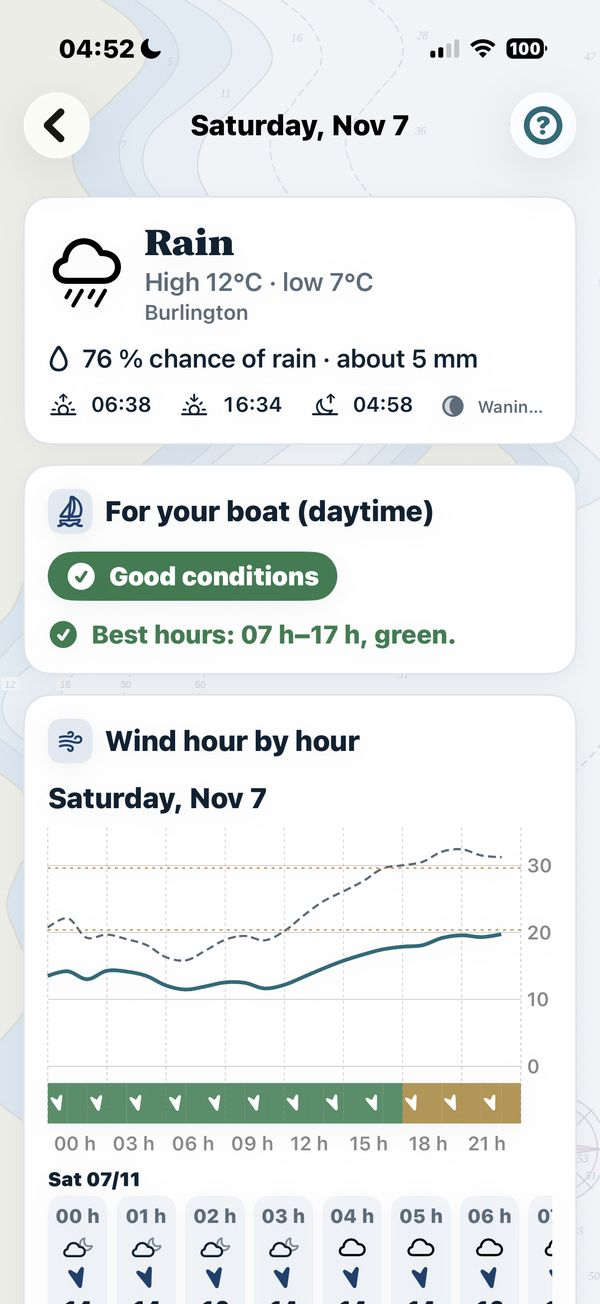
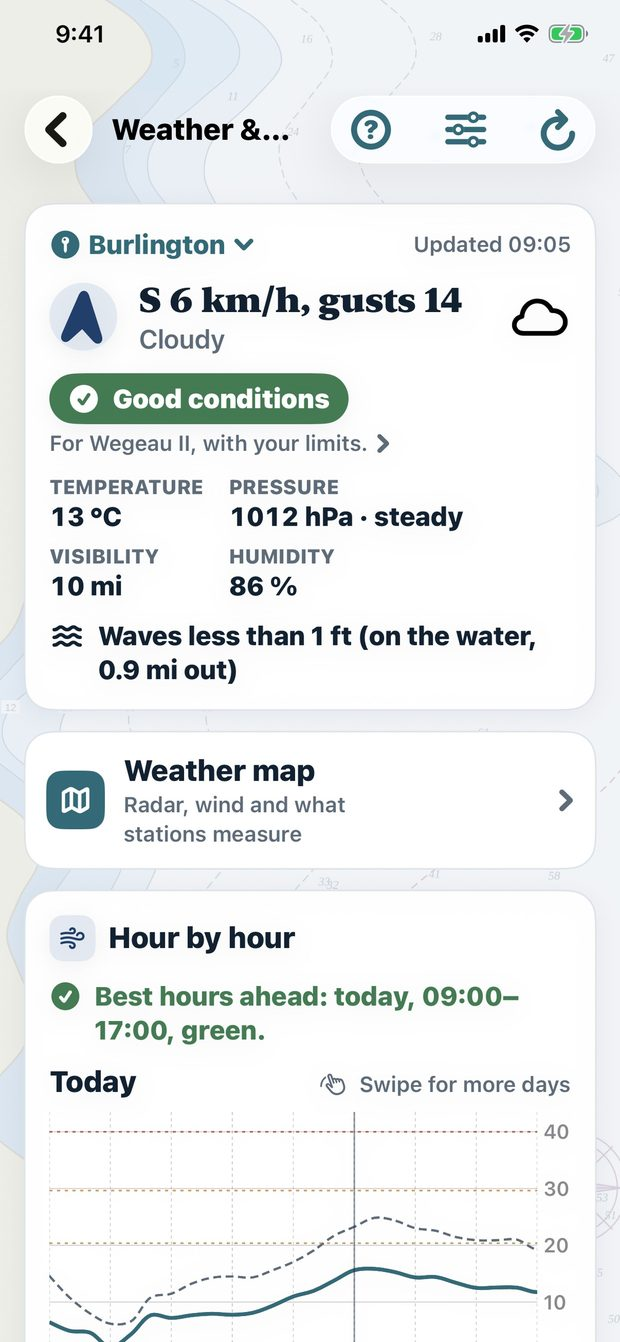
Website: Your boat's forecast in each language
Claude-Session: https://claude.ai/code/session_01L3i533V58JRPqQEedndtqT

diff --git a/fr/index.html b/fr/index.html
@@ -363,7 +363,7 @@ footer a{color:var(--on-night);text-decoration:none;margin-left:18px}
     </div>
     <div class="gallery" tabindex="0" aria-label="Captures d’écran, faites défiler horizontalement">
       <figure><div class="shot"><img loading="lazy" src="/images/fr/shot-07.jpg" alt="Planification d’un trajet sur la carte marine avec des points de route numérotés"></div><figcaption><b>Planifier un trajet</b> Points de route sur la carte marine, distance, durée et carburant.</figcaption></figure>
-      <figure><div class="shot"><img loading="lazy" src="/images/shot-12.jpg" alt="Les prévisions d’une journée pour votre bateau : bonnes conditions, meilleures heures et vent heure par heure en couleurs"></div><figcaption><b>Les prévisions pour votre bateau</b> Chaque journée évaluée selon vos propres limites, avec les meilleures heures pour sortir.</figcaption></figure>
+      <figure><div class="shot"><img loading="lazy" src="/images/fr/shot-12.jpg" alt="Les prévisions d’une journée pour votre bateau : bonnes conditions, meilleures heures et vent heure par heure en couleurs"></div><figcaption><b>Les prévisions pour votre bateau</b> Chaque journée évaluée selon vos propres limites, avec les meilleures heures pour sortir.</figcaption></figure>
       <figure><div class="shot"><img loading="lazy" src="/images/fr/shot-13.jpg" alt="Le téléphone pointé vers l’ancre par-dessus l’étrave pour en fixer la direction, avec les alertes de vent et d’orage activées"></div><figcaption><b>Viser l’ancre</b> Pour plus de précision, pointez le téléphone vers l’endroit où l’ancre a été jetée : l’alarme sait où elle se trouve, et pas seulement où vous étiez.</figcaption></figure>
       <figure><div class="shot"><img loading="lazy" src="/images/fr/shot-08.jpg" alt="Bilan de la saison : sorties, jours sur l’eau, distance, heures moteur et équipage"></div><figcaption><b>Bilan de la saison</b> Sorties, jours sur l’eau, votre plus longue sortie et qui est monté à bord.</figcaption></figure>
       <figure><div class="shot"><img loading="lazy" src="/images/fr/shot-09.jpg" alt="Rapports : coût total, carburant, entretien, coût à l’heure et par année"></div><figcaption><b>Rapports</b> Ce que coûte le bateau, par année et par catégorie.</figcaption></figure>

diff --git a/es/index.html b/es/index.html
@@ -363,7 +363,7 @@ footer a{color:var(--on-night);text-decoration:none;margin-left:18px}
     </div>
     <div class="gallery" tabindex="0" aria-label="Capturas de pantalla, desliza hacia el lado">
       <figure><div class="shot"><img loading="lazy" src="/images/es/shot-07.jpg" alt="Planificar una ruta en la carta náutica con waypoints numerados"></div><figcaption><b>Planifica una ruta</b> Waypoints en la carta náutica, distancia, tiempo y combustible.</figcaption></figure>
-      <figure><div class="shot"><img loading="lazy" src="/images/shot-12.jpg" alt="El pronóstico de un día para tu barco: buenas condiciones, mejores horas y viento hora a hora en colores"></div><figcaption><b>El pronóstico para tu barco</b> Cada día evaluado según tus propios límites, con las mejores horas para salir.</figcaption></figure>
+      <figure><div class="shot"><img loading="lazy" src="/images/es/shot-12.jpg" alt="El pronóstico de un día para tu barco: buenas condiciones, mejores horas y viento hora a hora en colores"></div><figcaption><b>El pronóstico para tu barco</b> Cada día evaluado según tus propios límites, con las mejores horas para salir.</figcaption></figure>
       <figure><div class="shot"><img loading="lazy" src="/images/es/shot-13.jpg" alt="Apuntar el teléfono al ancla por encima de la proa para fijar su dirección, con las alertas de viento y tormenta activadas"></div><figcaption><b>Apunta al ancla</b> Apunta el teléfono donde bajó el ancla, para más precisión: la alarma sabe dónde está, no solo dónde estabas tú.</figcaption></figure>
       <figure><div class="shot"><img loading="lazy" src="/images/es/shot-08.jpg" alt="Resumen de temporada: salidas, días en el agua, distancia, horas de motor y tripulación"></div><figcaption><b>Resumen de temporada</b> Salidas, días en el agua, tu salida más larga y quién subió a bordo.</figcaption></figure>
       <figure><div class="shot"><img loading="lazy" src="/images/es/shot-09.jpg" alt="Informes: coste total, combustible, mantenimiento, coste por hora y por año"></div><figcaption><b>Informes</b> Lo que cuesta el barco, por año y por categoría.</figcaption></figure>

diff --git a/it/index.html b/it/index.html
@@ -363,7 +363,7 @@ footer a{color:var(--on-night);text-decoration:none;margin-left:18px}
     </div>
     <div class="gallery" tabindex="0" aria-label="Schermate, scorri di lato">
       <figure><div class="shot"><img loading="lazy" src="/images/it/shot-07.jpg" alt="Pianificare una rotta sulla carta nautica con waypoint numerati"></div><figcaption><b>Pianifica una rotta</b> Waypoint sulla carta nautica, distanza, tempo e carburante.</figcaption></figure>
-      <figure><div class="shot"><img loading="lazy" src="/images/shot-12.jpg" alt="La previsione di una giornata per la tua barca: buone condizioni, ore migliori e vento ora per ora a colori"></div><figcaption><b>La previsione per la tua barca</b> Ogni giorno valutato rispetto ai tuoi limiti, con le ore migliori per uscire.</figcaption></figure>
+      <figure><div class="shot"><img loading="lazy" src="/images/it/shot-12.jpg" alt="La previsione di una giornata per la tua barca: buone condizioni, ore migliori e vento ora per ora a colori"></div><figcaption><b>La previsione per la tua barca</b> Ogni giorno valutato rispetto ai tuoi limiti, con le ore migliori per uscire.</figcaption></figure>
       <figure><div class="shot"><img loading="lazy" src="/images/it/shot-13.jpg" alt="Puntare il telefono verso l’ancora oltre la prua per fissarne la direzione, con gli avvisi vento e temporale attivi"></div><figcaption><b>Punta l’ancora</b> Punta il telefono dove è scesa l’ancora, per la precisione: l’allarme sa dov’è, non solo dov’eri tu.</figcaption></figure>
       <figure><div class="shot"><img loading="lazy" src="/images/it/shot-08.jpg" alt="Riepilogo della stagione: uscite, giorni in acqua, distanza, ore motore ed equipaggio"></div><figcaption><b>Riepilogo della stagione</b> Uscite, giorni in acqua, l’uscita più lunga e chi è salito a bordo.</figcaption></figure>
       <figure><div class="shot"><img loading="lazy" src="/images/it/shot-09.jpg" alt="Report: costo totale, carburante, manutenzione, costo all’ora e per anno"></div><figcaption><b>Report</b> Quanto costa la barca, per anno e per categoria.</figcaption></figure>
